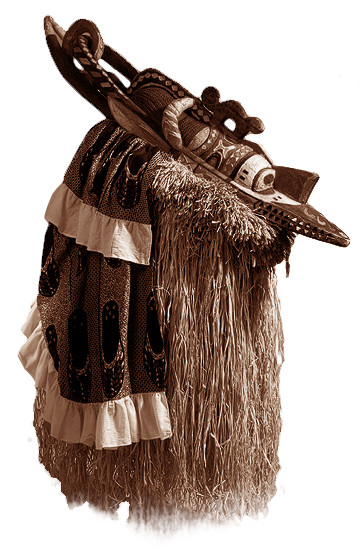
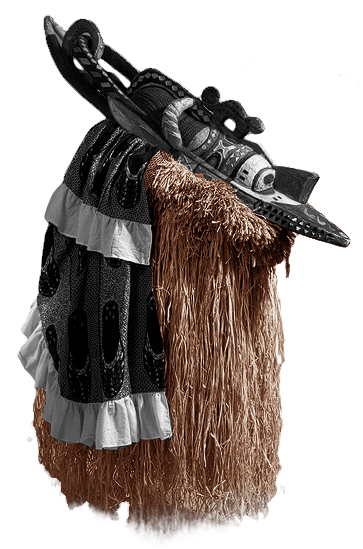
obaluae

Changed region(s): [[0.0606, 0.031, 0.9697, 0.8361], [0.1818, 0.867, 0.7576, 0.9909]]

diff --git a/games/obaluaye/css/style.css b/games/obaluaye/css/style.css
@@ -147,7 +147,7 @@ body {
 
 
 #obaluaye {
-	background-image: url('../imgs/obaluaejogo.png');
+	background-image: url('../imgs/obaluaye.png');
 	background-repeat: no-repeat;
 	background-position: 10% 60%;
 	background-size: 30%;
